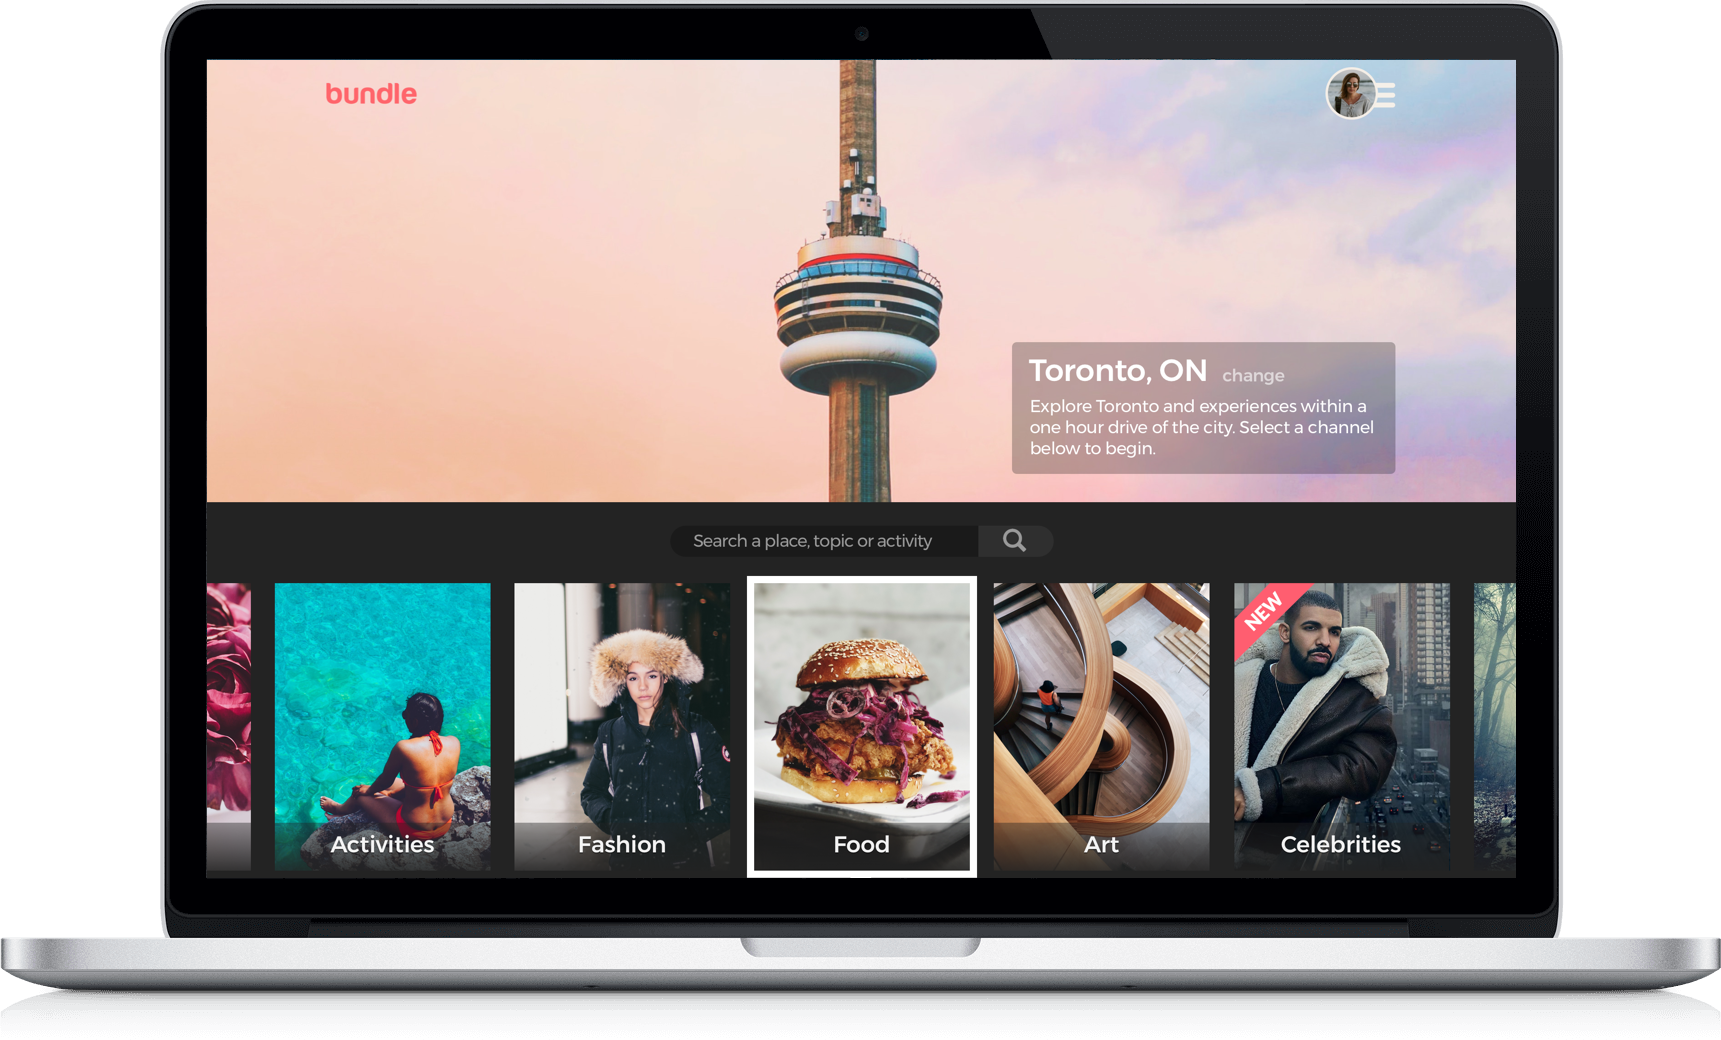
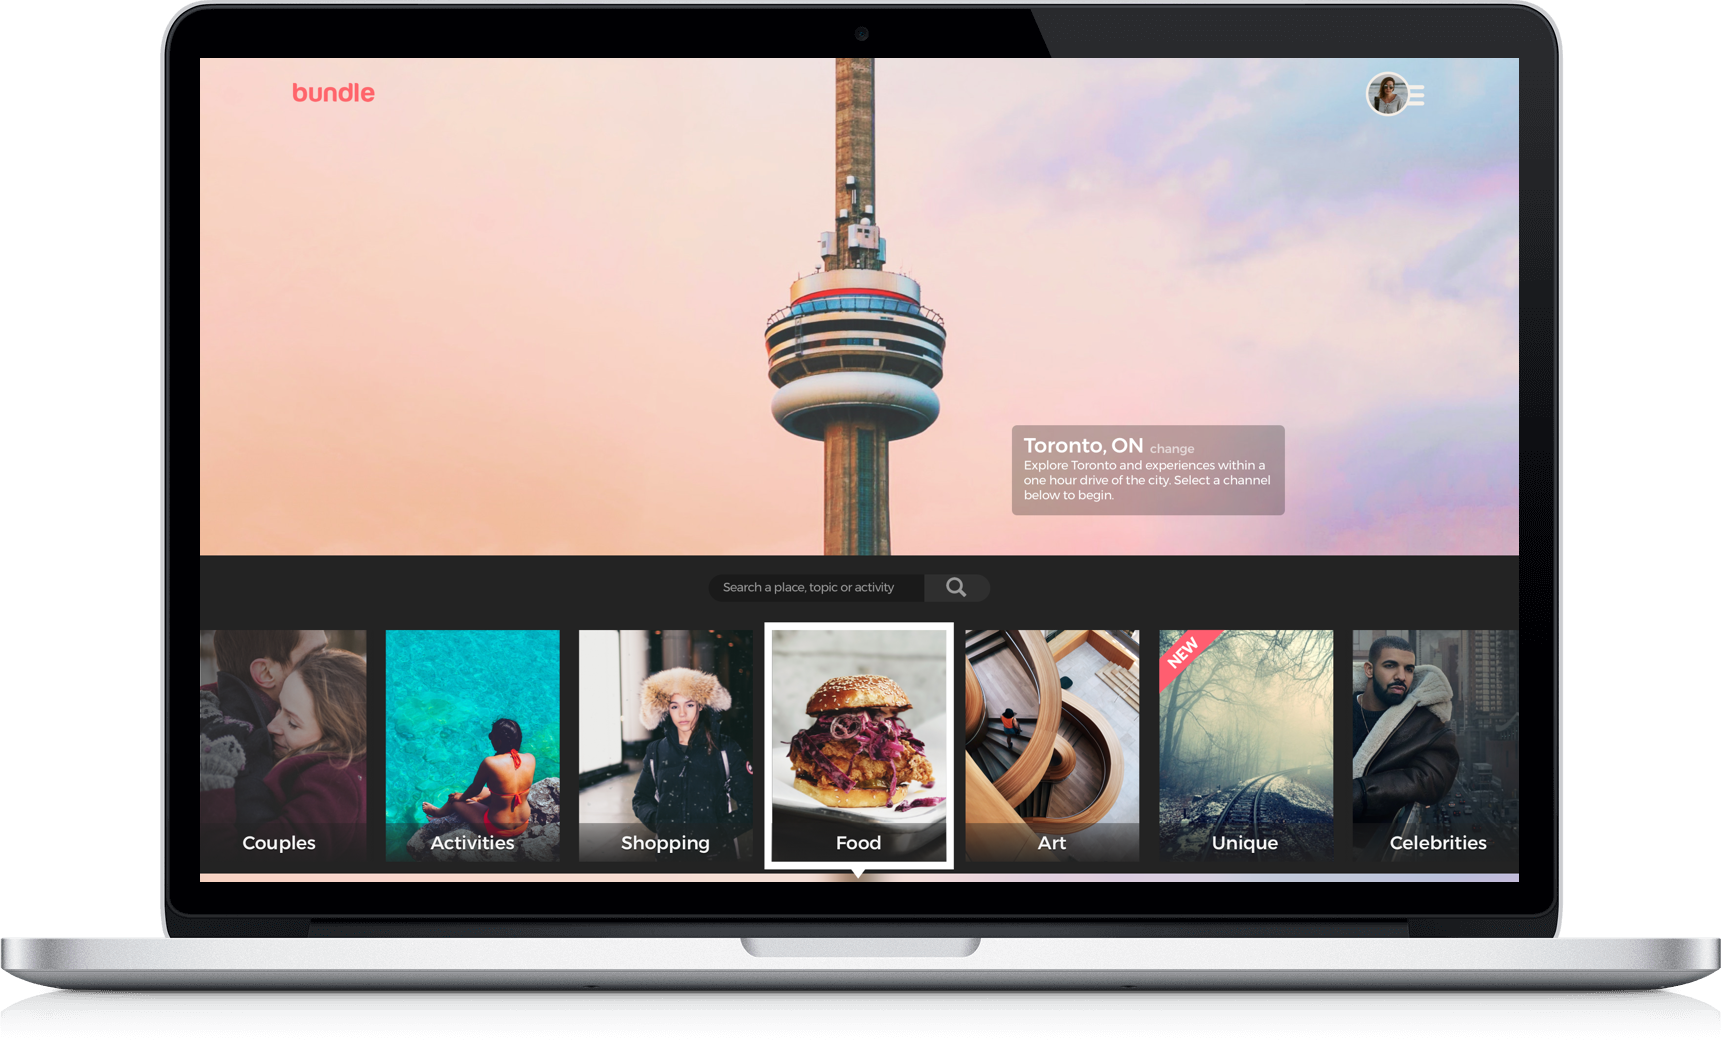
Change iMac to Macbook

diff --git a/frontend/partials/landing.html b/frontend/partials/landing.html
@@ -4,8 +4,7 @@
         <div class='col s8 offset-s2 m4 offset-m4 l4 offset-l4 valign'>
           <!-- <h3>Coming soon.</h3> -->
           <br><br>
-          <!-- <img src='Macbook.png' class='valign' id='macbook'> -->
-          <img src='imac.png' class='valign' id='macbook'>
+          <img src='Macbook.png' class='valign' id='macbook'>
           <img src='bundle_logo.png' class='valign' id='logo'>
           <form>
             <div class='row'>

diff --git a/server.js b/server.js
@@ -14,8 +14,6 @@ app.use(logger('dev'));
 app.use(cookieParser());
 app.use(express.static(path.join(__dirname, 'frontend'), { redirect: false }));
 
-// require('./backend/models/db.js');
-// require('./backend/models/content.js');
 var routesApi = require('./backend/routes.js');
 
 app.use('/api', routesApi);
